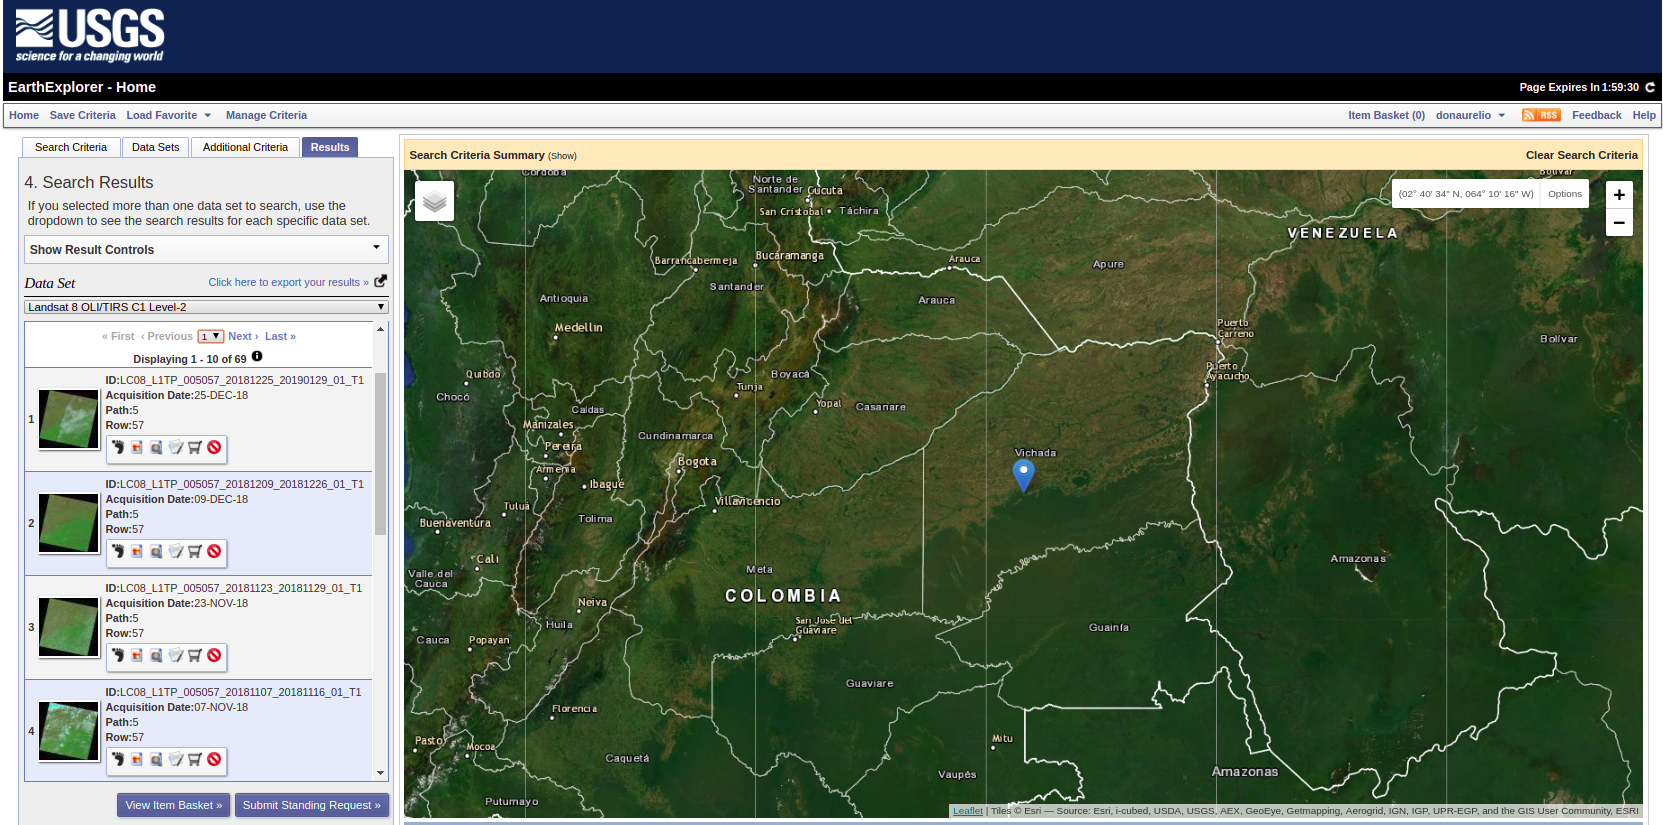
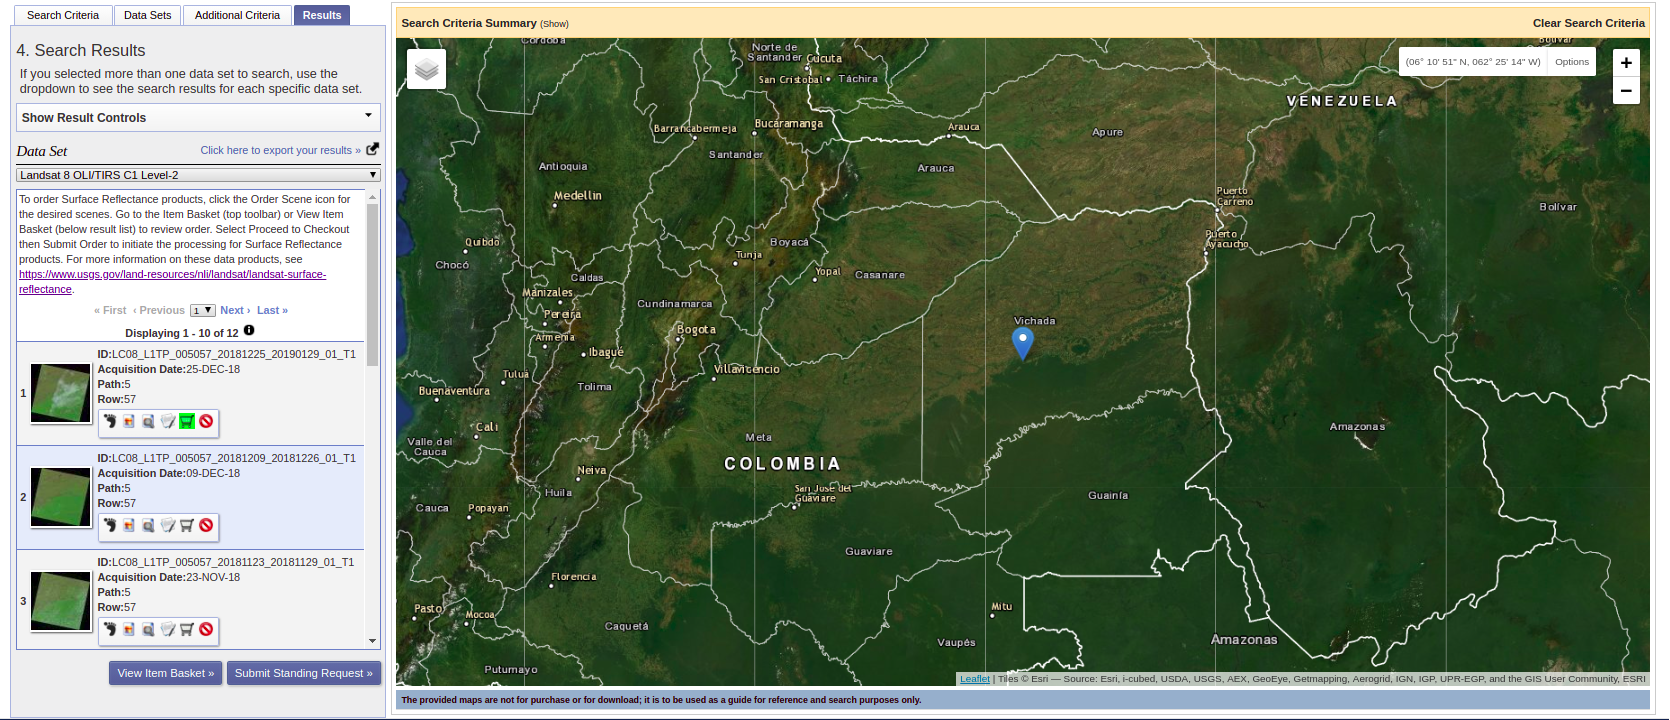
updating

diff --git a/open-datacube/2.scene_adquisition.md b/open-datacube/2.scene_adquisition.md
@@ -8,26 +8,50 @@ Landsat satellites collect pictures of earth called scenes. Colombia is covered 
 
 ![alt text](https://raw.githubusercontent.com/DonAurelio/manuals/master/open-datacube/img/colombia_scenes.png)
 
-Each yellow square is labeled using the **path-row** notation. This notation allow user reference any landsat scene specifiying the PATH and ROW numbers. We can obtain scenes based on this notation using the [EarthExplorer](https://earthexplorer.usgs.gov/), this viewer require you to be registered. We will request scenes from 01/01/2016 to 12/31/2018 for the PATH=5 and ROW=57. This scene cover the part of Vichada Deparment in Colombia. 
+Each yellow square is labeled using the **path-row** notation. This notation allow user reference any landsat scene specifiying the PATH and ROW numbers. We can obtain scenes based on this notation using the [EarthExplorer](https://earthexplorer.usgs.gov/), this viewer require you to be registered. We will request scenes from 01/01/2016 to 12/31/2018 for the PATH=5 and ROW=57. This scene cover part of Vichada Deparment in Colombia. 
 
 ![alt text](https://raw.githubusercontent.com/DonAurelio/manuals/master/open-datacube/img/ee_1.png)
 
 
-The next step is the selection of the Scene Collection (Dataset). We will use the Landsat Collection 1 - Level-2. Each level of the landsat collection peform some image correction inteded for different analysis. In particular, Level-2 performs Surface Reflectance Correction to mitigate atmospheric effects over images (scenes). Further information about Landsat Collection Levels can be found in [3].
+The next step is the selection of the Scene Collection (Dataset). We will use the Landsat Collection 1 - Level-1. Each level of the landsat collection perform some image correction inteded for different analysis. In particular, Level-2 performs Surface Reflectance Correction to mitigate atmospheric effects over images (scenes). Further information about Landsat Collection Levels can be found in [3].
 
 ![alt text](https://raw.githubusercontent.com/DonAurelio/manuals/master/open-datacube/img/ee_2.png)
 
-After the Landsat Collection seleciton, we will get the scenes that match the criteria specified before. We have to select each scene we are interested in. Then, use the button "View Item Basket" to submit the scenes order. This order will take several minutes since this images are preprocessed (image correction) on-demand. 
+After the Landsat Collection seleciton, we will get the scenes that match the criteria specified before. We have to select each scene we are interested in. A click on the shopping cart icon will select the scene to be downloaded.  The image icon will display a preview of the scene on the map. After selecting the images you need you must use the button "View Item Basket" to request the scenes. This request order will take several minutes since images are preprocessed (image correction) on-demand. 
 
 ![alt text](https://raw.githubusercontent.com/DonAurelio/manuals/master/open-datacube/img/ee_3.png)
 
-You will receive and email on which a link may be available to track the status of your order. Once the order is completed the images can be downloaded on your computer.
+You will receive and email on which the EarthExplorer platform will confirm the reception of your order, i.e., your request is in a queue waiting to start processing. A link may be available to track the status of your order.
 
 ![alt text](https://raw.githubusercontent.com/DonAurelio/manuals/master/open-datacube/img/ee_4.png)
 
+Once the order starts being processed, another email will be sent. 
+
+
+
+<!-- Once the order is completed the images can be downloaded on your computer.
+ -->
+
 ## Scene Data
 
+Scenes have unique idenifiers that provide relevant information about the satellite from which they were taken an other relevant data about the scene. 
 
+LXSS_LLLL_PPPRRR_YYYYMMDD_yyyymmdd_CC_TX
+
+* L = Landsat
+* X = Sensor (“C”=OLI/TIRS combined, “O”=OLI-only, “T”=TIRS-only, “E”=ETM+, “T”=“TM, “M”=MSS)
+* SS = Satellite (”07”=Landsat 7, “08”=Landsat 8)
+* LLL = Processing correction level (L1TP/L1GT/L1GS)
+* PPP = WRS path
+* RRR = WRS row
+* YYYYMMDD = Acquisition year, month, day
+* yyyymmdd - Processing year, month, day
+* CC = Collection number (01, 02, …)
+* TX = Collection category (“RT”=Real-Time, “T1”=Tier 1, “T2”=Tier 2)
+
+Example:  LC08_L1GT_029030_20151209_20160131_01_RT
+
+Means: Landsat 8; OLI/TIRS combined; processing correction level L1GT; path 029; row 030; acquired December 9, 2015; processed January 31, 2016; Collection 1; Real-Time
 
 ## Product Creation
 
